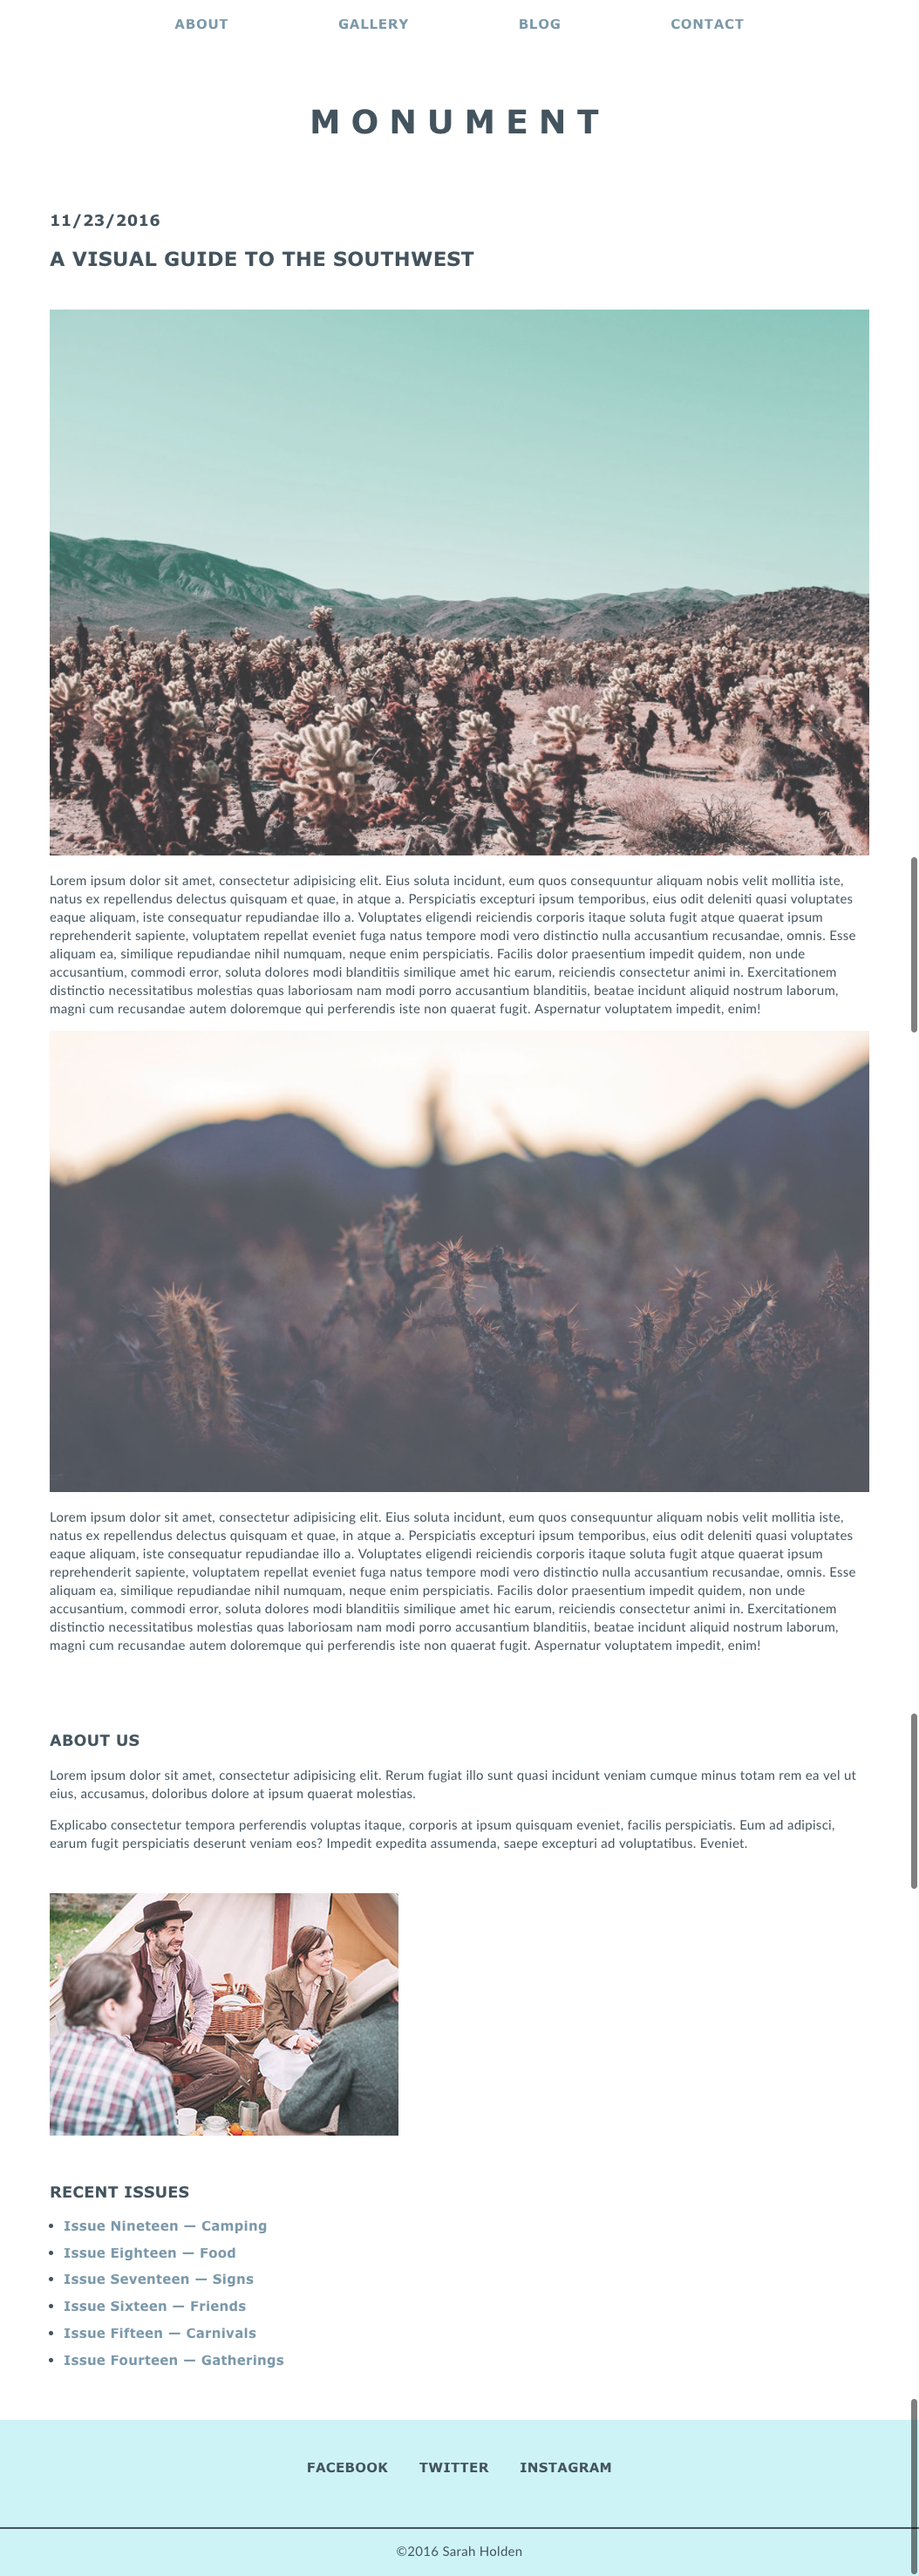
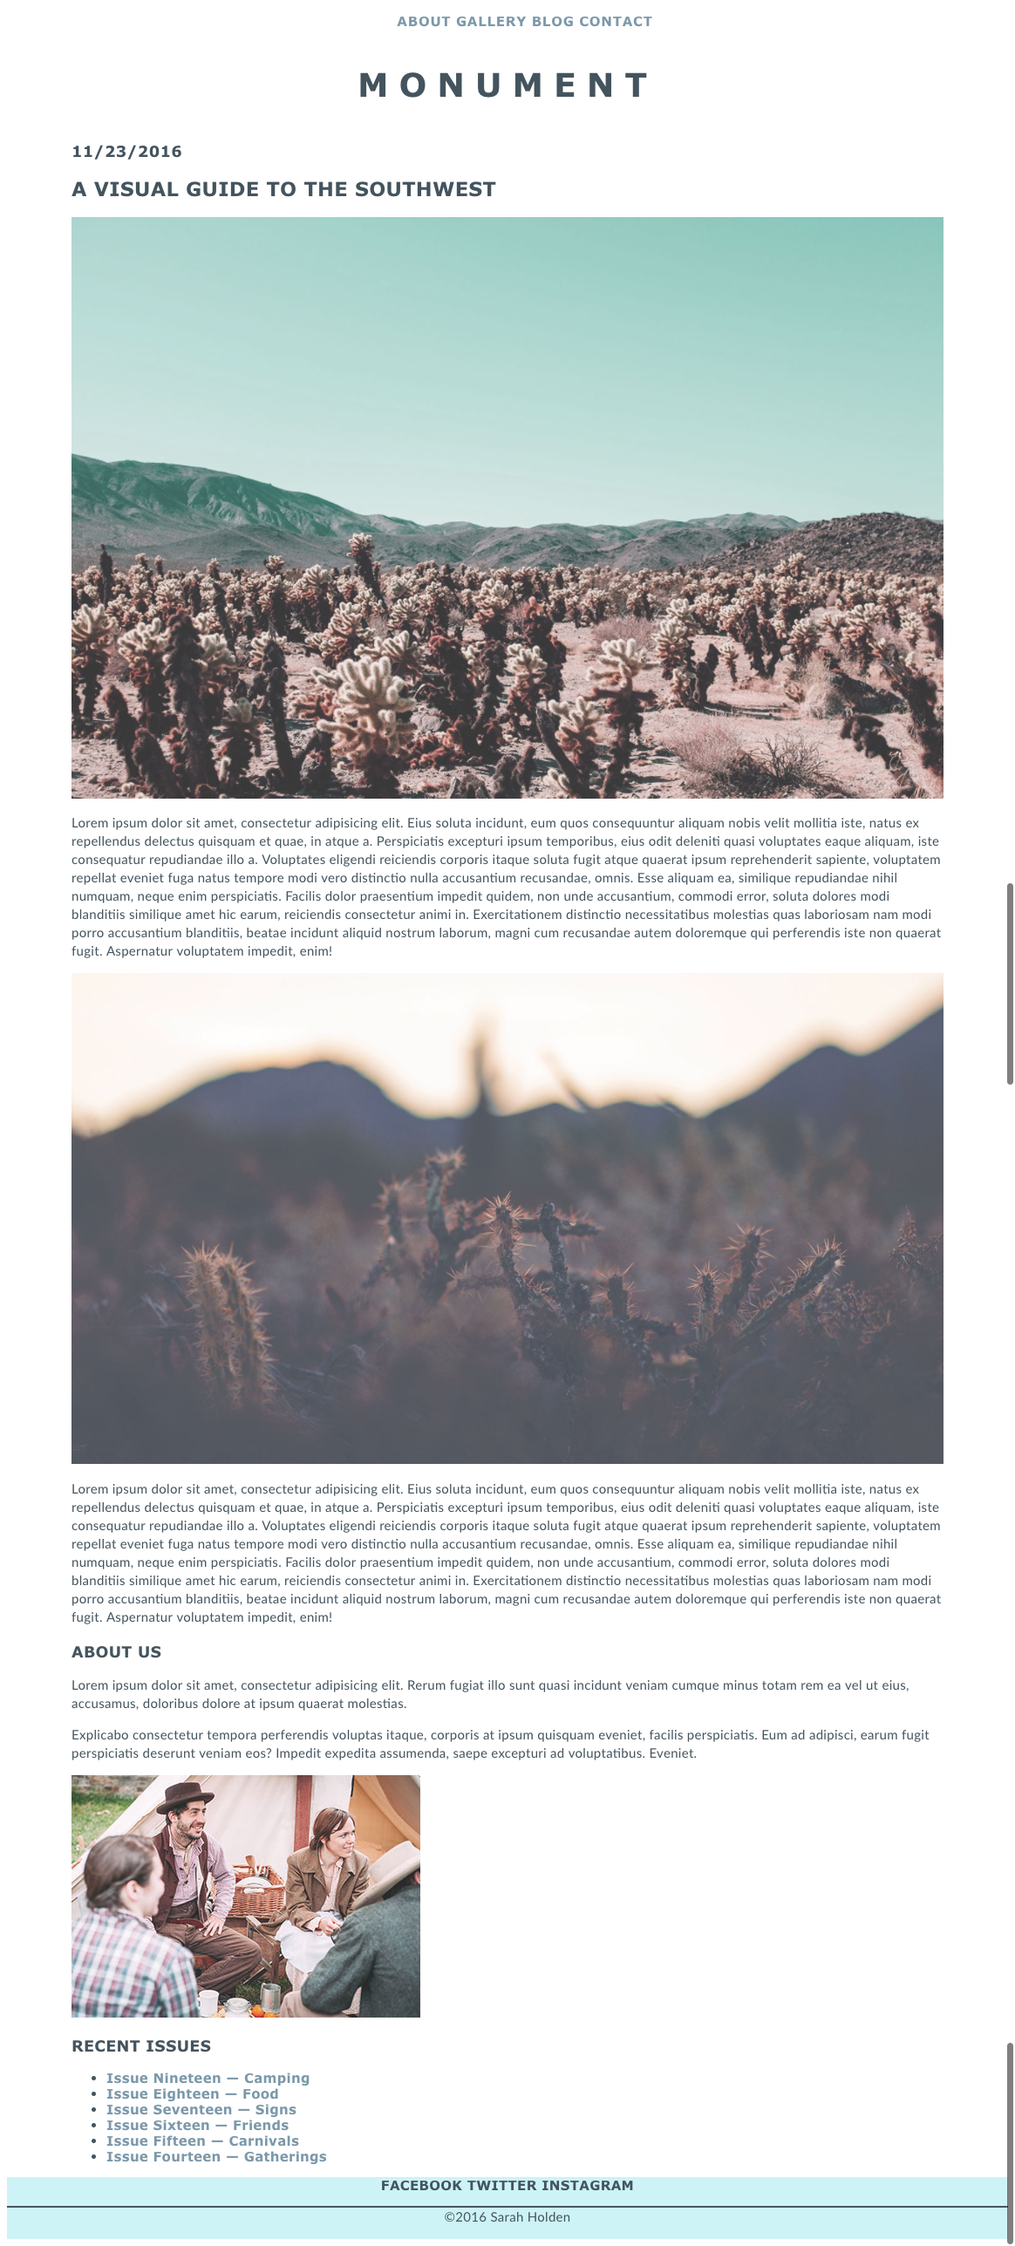
Updates to Assignment 1 - Links and removed padding/margin from simple solution

diff --git a/curriculum/week-01/homework/02-project-pt-1/solution-code/solution/css/style.css b/curriculum/week-01/homework/02-project-pt-1/solution-code/solution/css/style.css
@@ -12,7 +12,6 @@ html {
 body {
 	font-family: Verdana, sans-serif;
 	-webkit-font-smoothing: antialiased;
-	margin: 0;
 	text-transform: uppercase;
 	letter-spacing: .02em;
 	text-align: center;
@@ -43,14 +42,6 @@ h1 {
 	letter-spacing: .8rem;
 }
 
-h2 {
-	margin-bottom: 45px;
-}
-
-h3 {
-	margin-bottom: 45px;
-}
-
 a {
 	text-decoration: none;
 	color: #7B98AA;
@@ -72,7 +63,6 @@ ul a {
 }
 
 ul {
-	padding: 0;
 	list-style: none;
 }
 
@@ -86,10 +76,6 @@ li {
 /* ----------------------------------------
 Layout
 ------------------------------------------- */
-section {
-	padding: 105px 30px;
-}
-
 .wrap {
 	max-width: 1000px;
 	width: 100%;
@@ -118,17 +104,8 @@ section {
 Header
 ------------------------------------------- */
 header {
-	padding-top: 30px;
 	background-repeat: no-repeat;
 	background-size: cover;
-}
-nav {
-	position: absolute;
-	top: 0;
-	left: 0;
-	right: 0;
-	background-color: white;
-	z-index: 100;
 }
 
 nav li {
@@ -138,8 +115,6 @@ nav li {
 nav a {
 	font-weight: 600;
 	letter-spacing: 0.75px;
-	letter-spacing: .05rem;
-	padding: 3px 60px;
 	display: inline-block;
 	border-bottom: none;
 	text-transform: uppercase;
@@ -164,7 +139,6 @@ button {
 	outline: 0;
 	border: 2px solid #44545E;
 	color: #44545E;
-	padding: 8px 25.5px;
 	background-color: transparent;
 	font-weight: 500;
 	text-transform: uppercase;
@@ -179,10 +153,6 @@ button:hover {
 	font-weight: 600;
 }
 
-.articles button {
-	margin-top: 30px;
-}
-
 /* ----------------------------------------
 Footer
 ------------------------------------------- */
@@ -191,19 +161,12 @@ footer {
 	overflow: auto;
 }
 
-footer .wrap {
-	padding: 30px 15px;;
-}
-
 .social-links a {
 	/*font-size: 30px;*/
-	padding: 15px;
-	margin-bottom: 0;
 	display: inline-block;
 	color: #44545E;
 }
 
 .copyright {
 	border-top: 2px solid #44545E;
-	padding: 15px 0 3px;
 }

diff --git a/curriculum/week-01/homework/02-project-pt-1/solution-code/solution/css/blog.css b/curriculum/week-01/homework/02-project-pt-1/solution-code/solution/css/blog.css
@@ -7,15 +7,6 @@ header h2 {
 	letter-spacing: 0.3rem;
 }
 
-header {
-
-
- 	padding-top: 6rem;
-	padding-bottom: 2.5rem;
-
-
-}
-
 h1 a {
 	color: #44545E;
 
@@ -27,12 +18,6 @@ Layout
 ------------------------------------------- */
 .grid-wrapper section {
 	text-align: left;
-	padding-top: 0;
-	padding-bottom: 54.4px;
-}
-
-.comment {
-	padding-top: 0;
 }
 
 /* ----------------------------------------
@@ -40,29 +25,14 @@ Aside
 ------------------------------------------- */
 aside {
 	text-align: left;
-	padding: 0 2rem 3rem;
-}
-
-aside h3 {
-	margin-bottom: 19.2px;
-}
-
-aside img {
-	margin: 32px 0;
 }
 
 aside ul {
-	list-style: disc;
-	padding-left: 16px;
+	list-style: disc;;
 
 }
 
 aside li {
-	margin-bottom: 12.8px;
 	display: list-item;
 	color: #44545E;
-}
-
-article h3 {
-	margin-bottom: 0;
 }

diff --git a/curriculum/week-01/homework/02-project-pt-1/README.md b/curriculum/week-01/homework/02-project-pt-1/README.md
@@ -23,7 +23,7 @@ Your work must:
 - Indent nested elements to increase your code's readability
 - Use IDs, classes, and nested selectors to to select and style elements on the page
 readable.
-- Use HTML and CSS validators to check for errors before submitting.
+- Use [HTML](https://html5.validator.nu/) and [CSS](https://jigsaw.w3.org/css-validator/#validate_by_input) validators to check for errors before submitting.
 
 
 **Bonus:**
@@ -31,7 +31,7 @@ readable.
 - Google and implement a background-image for the header section. You will want to look up properties such as background-image, background-size, and background-position.
 - Google and implement FontAwesome Icons for the footer links to Facebook, Twitter and Instagram.
 - Look up Emmet shortcuts for how to quickly scale up your HTML.
-- Experiment with HTML tags and CSS properties that have not yet been covered in class.
+- Experiment with padding and margin to add space between elements on the page.
 
 #### Starter code
 
@@ -40,11 +40,19 @@ Images that you'll need to recreate the blog have been provided in the Starter C
 #### Suggested Ways to Get Started
 
 - First you'll want to create a blog.html file for the blog (you'll be using index.html for the landing page you'll build over the weekend)
-- Then you'll want to create a css file for the project.
+- Next create a CSS file for the project (be sure to use the .css file extension).
 - Add a link to the CSS file in the head of your HTML file.
 - Start by writing the HTML for the assignment and focusing on the _structure_ of the page (~ 20 minutes)
 - Look at the design and start with the most general styles. For example, what color is most of the text? Does most of the text appear to use the same font-family? (~10 minutes)
-- Then begin adding more specific styles for elements (~ 15 min)
+- Then begin adding more specific styles for elements. (~ 15 min)
+
+Be sure to pay attention to detail and consider the following:
+- Did you consider the relationship of h-tags size to one another?
+- Is the design of your h-tags consistent?
+- Did you use a similar font-family to the design?
+-Does your nav stand out against other links but still feel consistent with the page design?
+- Do you have anything *unstyled* or using its initial style on the page? (Blue, underlined links, Times New Roman font, etc.)
+
 
 #### Deliverable
 
